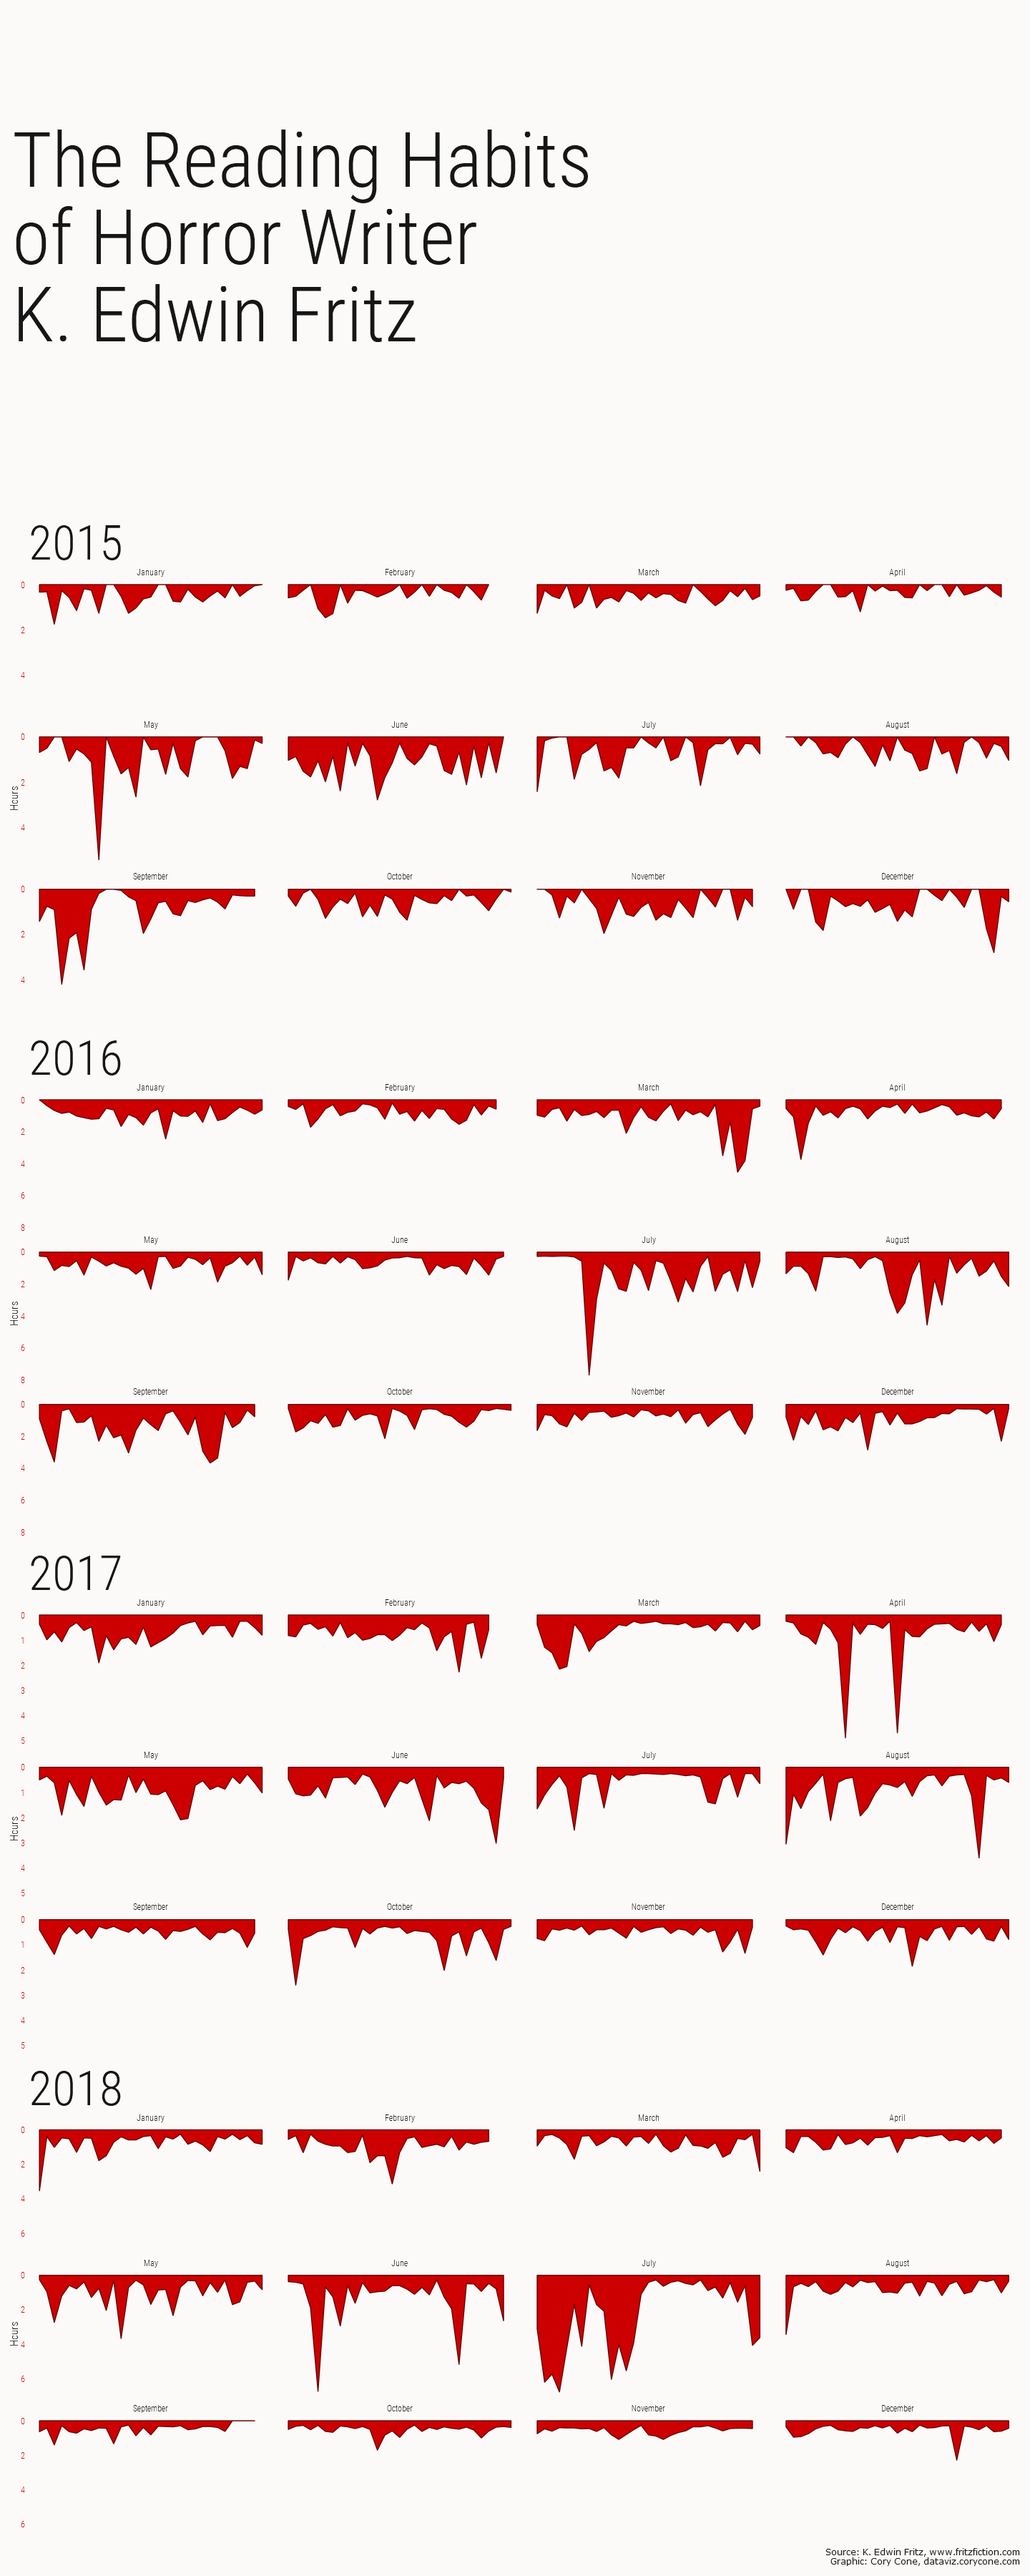
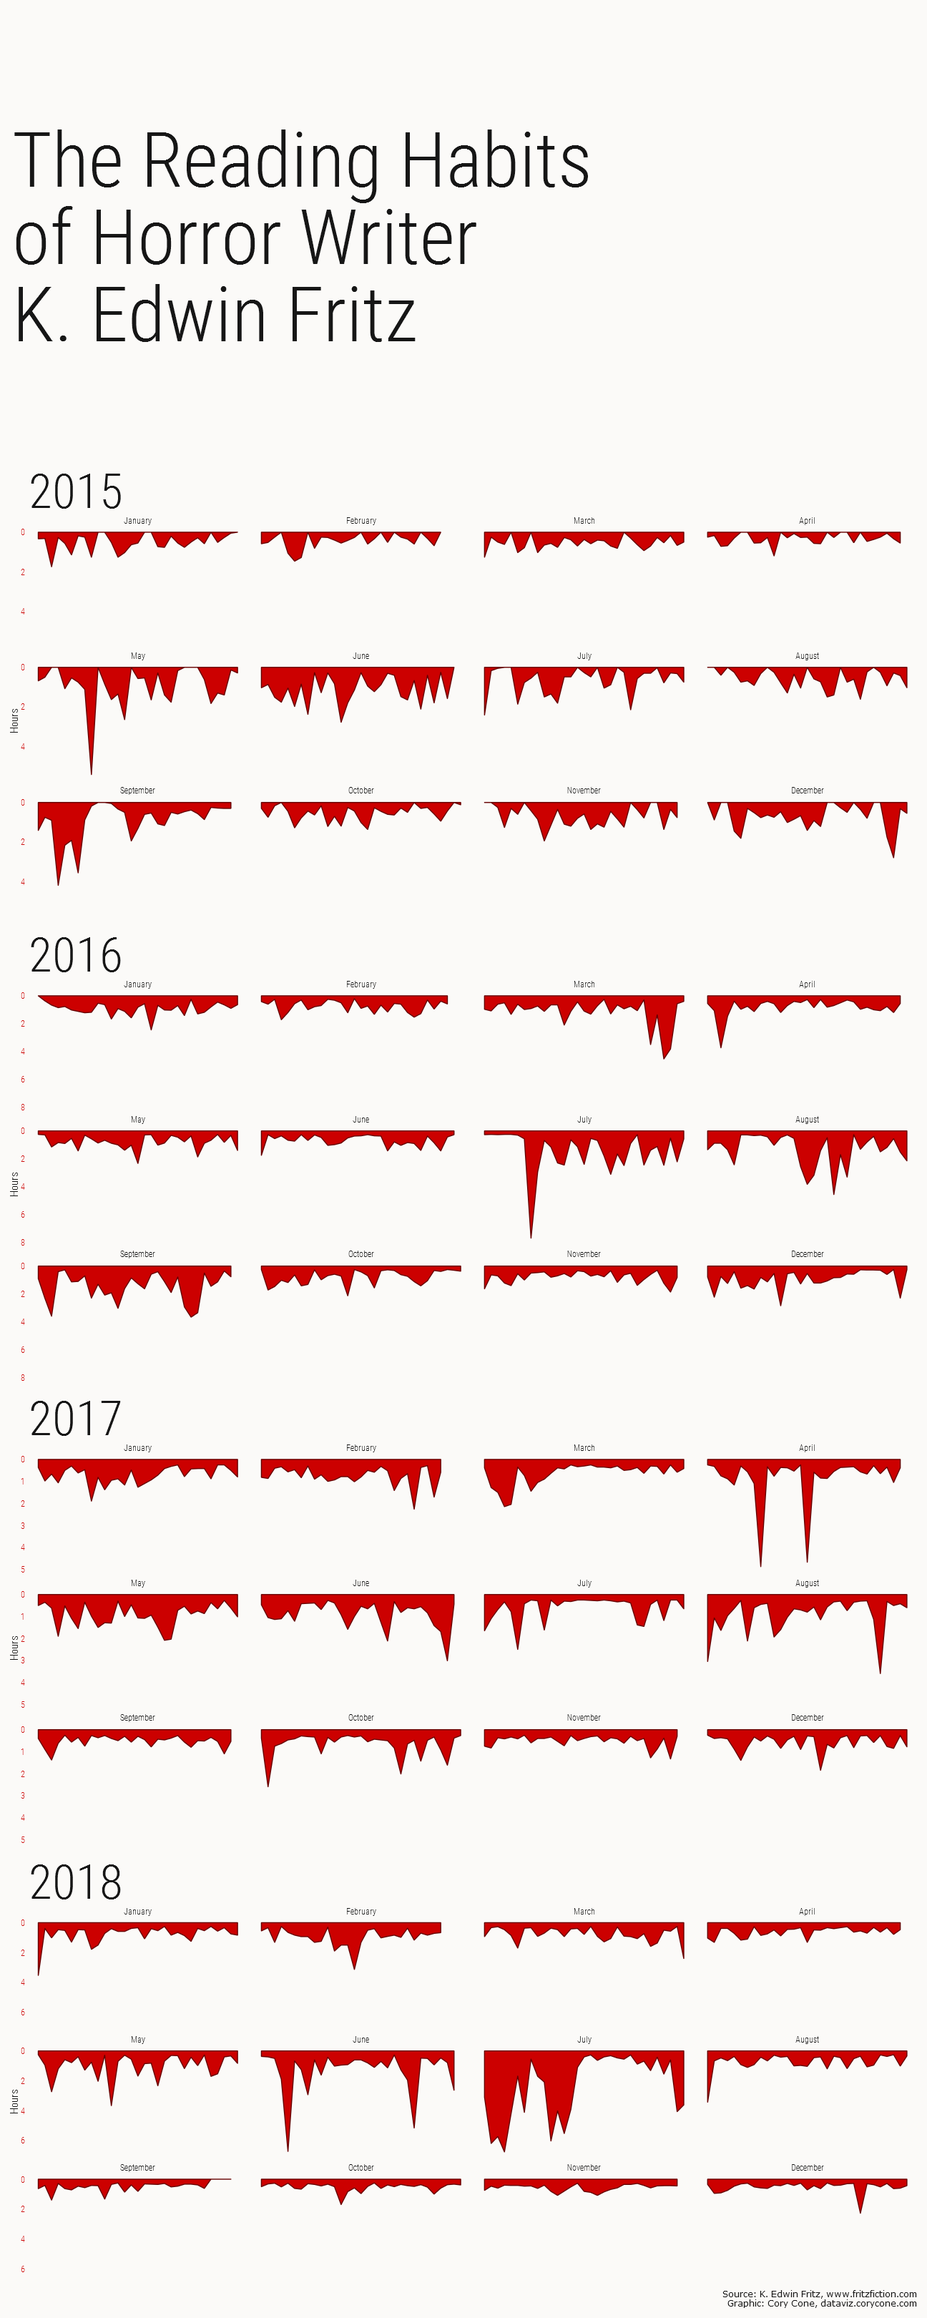
changed in progress png to new name fixed spacing issue in title updated README

diff --git a/README.md b/README.md
@@ -13,4 +13,4 @@ In progress. More details here when I have more done.
 
 font is Roboto Condensed, https://fonts.google.com/specimen/Roboto+Condensed
 
-![Reading Habits of K. Edwin Fritz](inprogress_cairo.png)
+![Reading Habits of K. Edwin Fritz](fritz_reading_screen.png.png)
